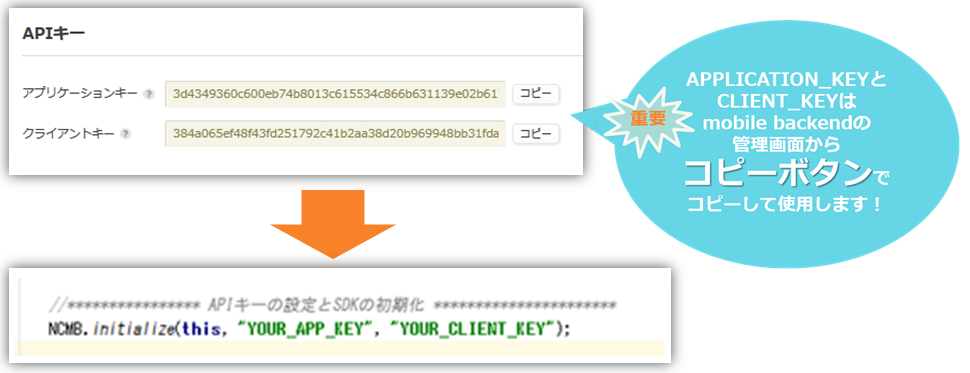
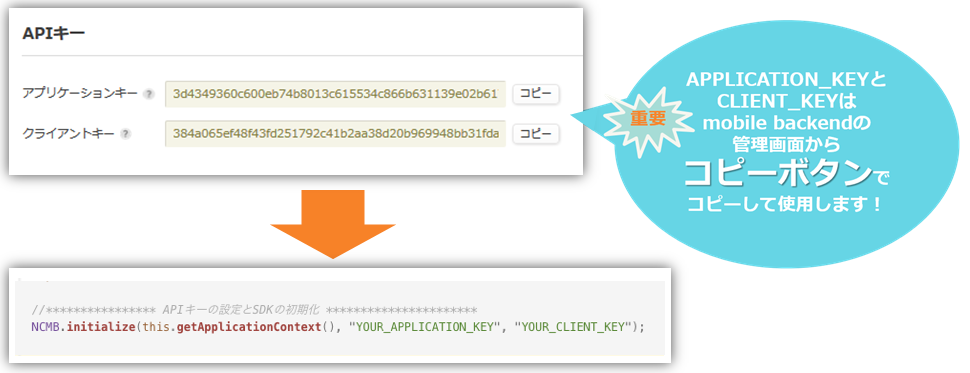
Update image

Changed region(s): [[0.0309, 0.7962, 0.6804, 0.9142]]

diff --git a/README.md b/README.md
@@ -89,7 +89,7 @@ dependencies {
 
 ![画像8](/readme-img/AndroidAPIkey.png)
 
-* それぞれ`YOUR_APP_KEY`と`YOUR_CLIENT_KEY`の部分を書き換えます
+* それぞれ`YOUR_APPLICATION_KEY`と`YOUR_CLIENT_KEY`の部分を書き換えます
  * このとき、ダブルクォーテーション（`"`）を消さないように注意してください！
 
 ### 5. 動作確認
